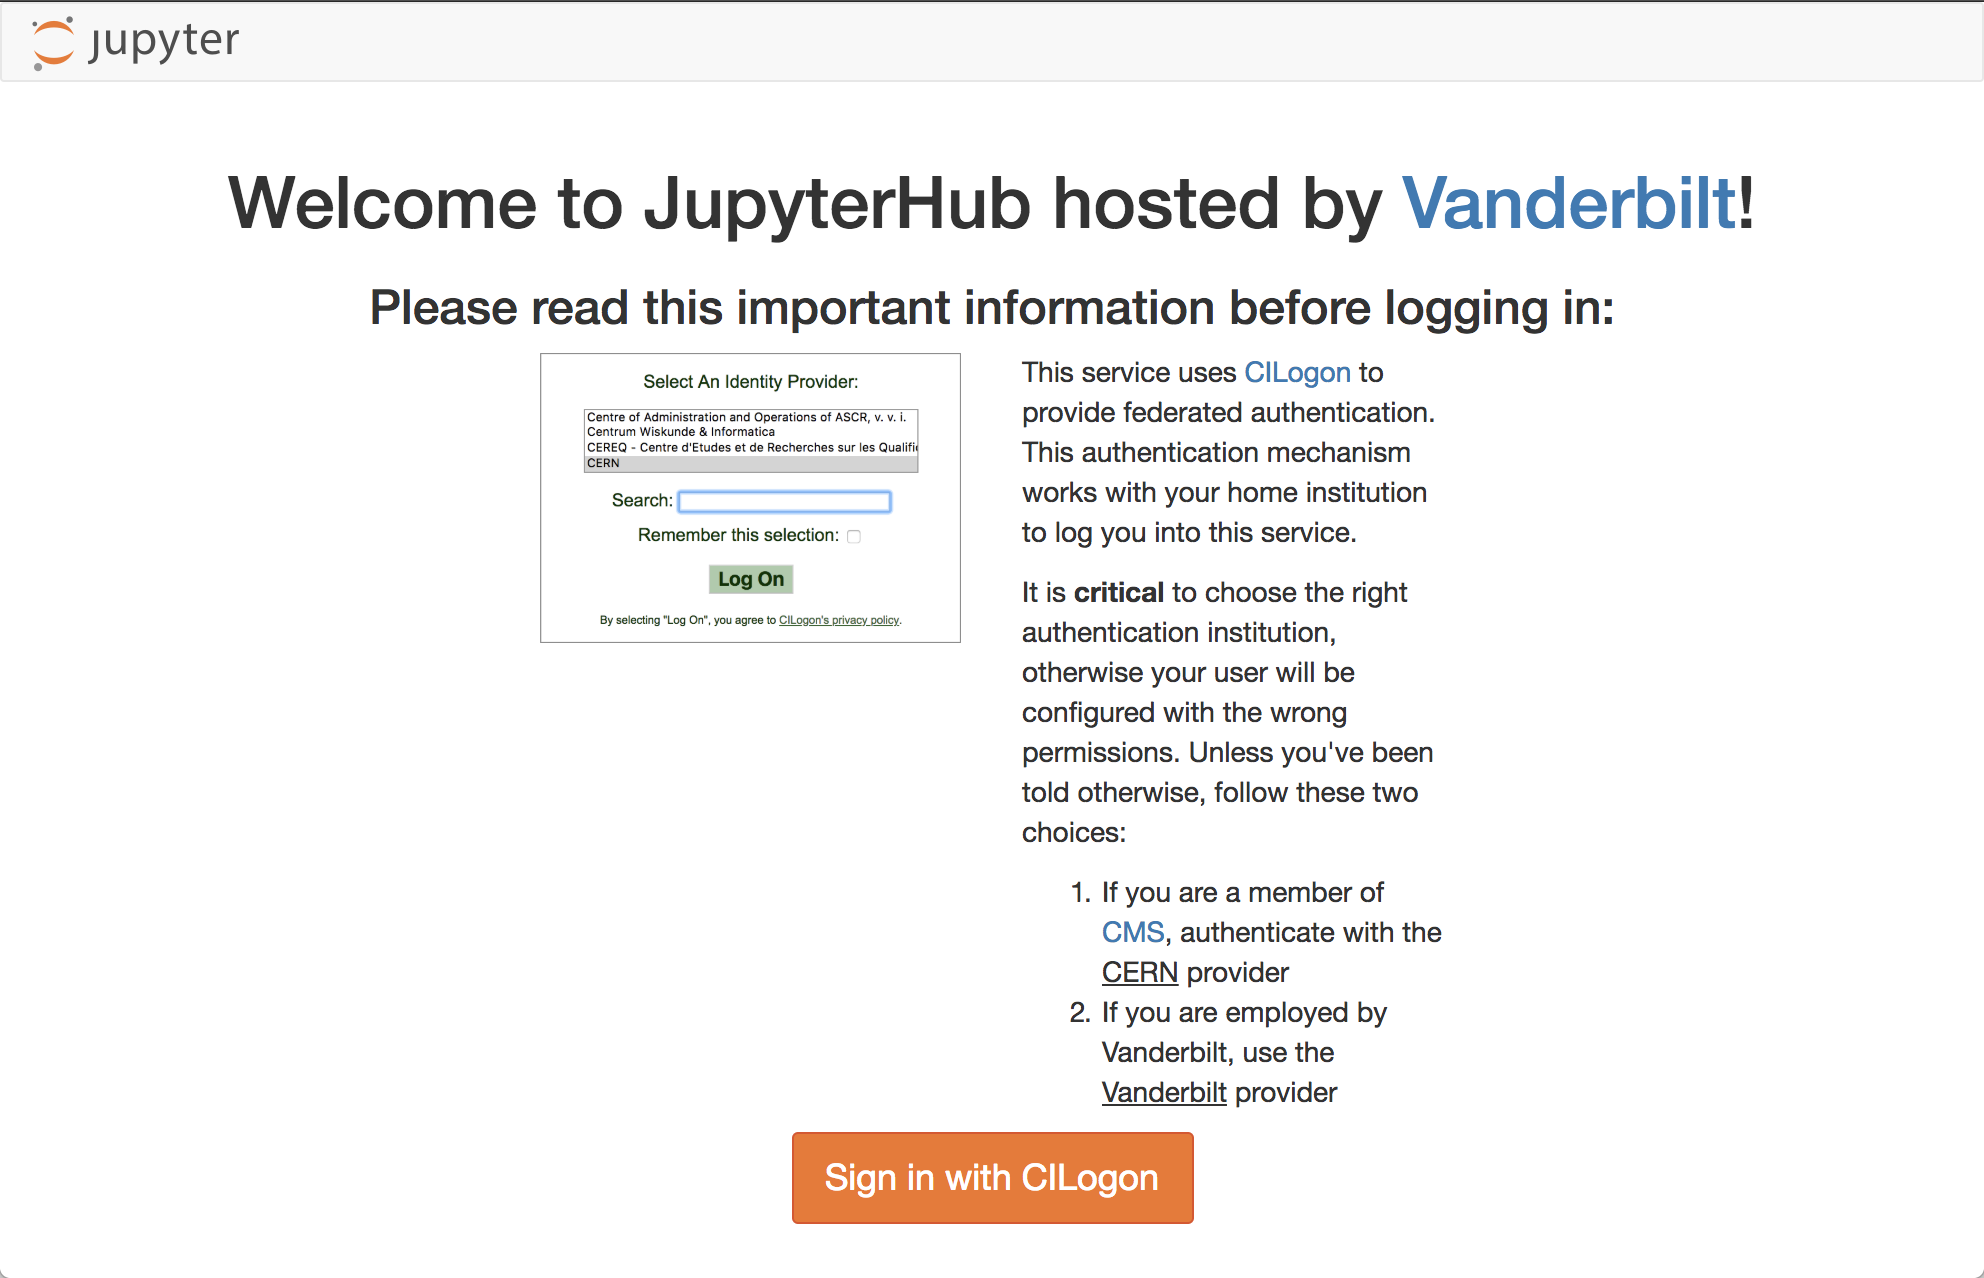
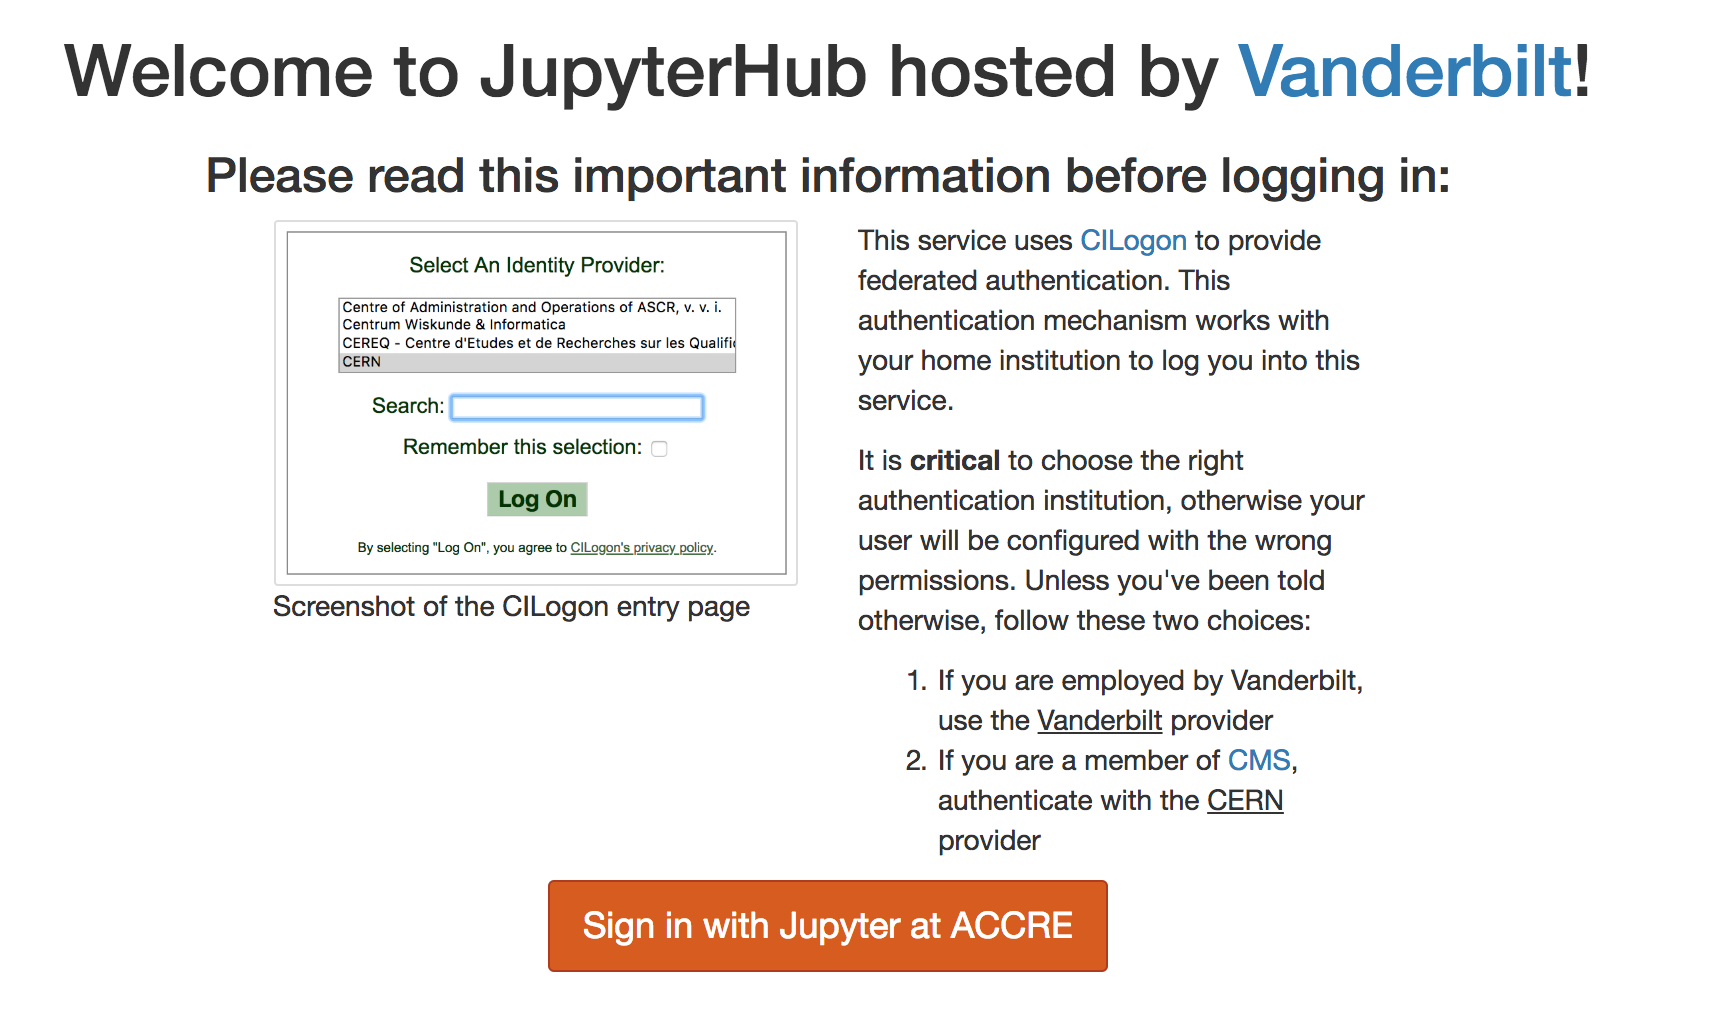
A few fixes

Changed region(s): [[0.0, 0.0, 0.9343, 0.9764], [0.9965, 0.9764, 1.0, 1.0]]

diff --git a/README.md b/README.md
@@ -29,7 +29,7 @@ If this is the first time using this JupyterHub, you should see:
   <img src="vanderbilt.png" width="500"/>
 </p>
 
-Click the "Sign in with CILogon" button. On the following page, select CERN as your identity provider and click the "Log On" button. Then, enter your CERN credentials or use your CERN grid certificate to autheticate.
+Click the "Sign in with Jupyter ACCRE" button. On the following page, select CERN as your identity provider and click the "Log On" button. Then, enter your CERN credentials or use your CERN grid certificate to autheticate.  Click "Spawn" to start a "Default ACCRE Image v2" image.
 
 Now you should see the JupyterHub home directory. Click on "New" then "Terminal" in the top right to launch a new terminal.
 
@@ -43,7 +43,7 @@ To download the tutorials, type
 git clone https://github.com/FNALLPC/statistics-das
 ```
 
-Now, in your directory tab, there should be a new directory called `statistics-das`. All of the tutorials and exercises are in there.
+Now, in your directory tab, there should be a new directory called `statistics-das`. All of the tutorials and exercises are in there.  Start by clicking on `setup-libraries.ipynb` and running it.
 
 ## Links
 
